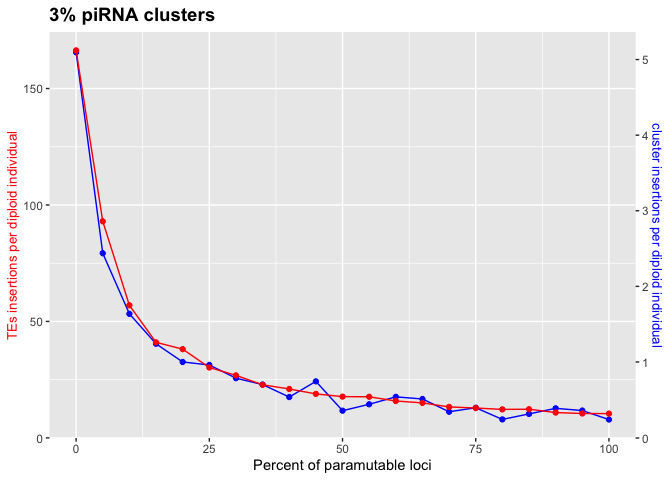
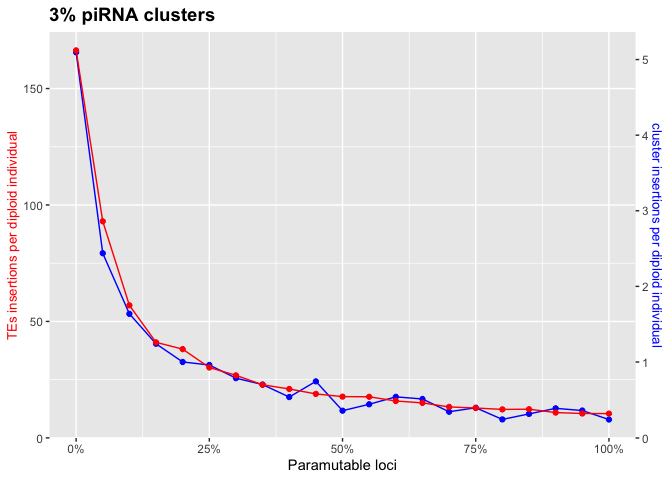
Labels fix

diff --git a/Simulation/2022_08_09_Simulation_1_Paramutations.md b/Simulation/2022_08_09_Simulation_1_Paramutations.md
@@ -136,17 +136,18 @@ df3_2 <- df3_2[order(df3_2$sampleid),]
 
 
 coeff_3=32.5
-g3 <- ggplot(df3_2, aes(x=sampleid))+
+g3 <- ggplot(df3_2, aes(x=sampleid/100))+
   geom_point(aes(y=av_cli*coeff_3), color="blue")+
   geom_line(aes(y=av_cli*coeff_3), color="blue")+
   geom_point(aes(y=av_tes), color="red")+
   geom_line(aes(y=av_tes), color="red")+
+  scale_x_continuous(labels = scales::percent)+
   ggtitle("3% piRNA clusters")+
   scale_y_continuous(
     name = "TEs insertions per diploid individual",
     sec.axis = sec_axis(~./coeff_3, name="cluster insertions per diploid individual")
   )+
-  xlab("Percent of paramutable loci")+
+  xlab("Paramutable loci")+
   theme(legend.position="none",
         plot.title = element_text(size=14, face="bold"),
         axis.title.y = element_text(color = "red", size=10),
@@ -159,13 +160,14 @@ plot(g3)
 ![](2022_08_09_Simulation_1_Paramutations_files/figure-gfm/unnamed-chunk-3-3.png)<!-- -->
 
 ``` r
-g_3_2 <- ggplot(df3_2, aes(x=sampleid, y=cv_tes_percent))+
+g_3_2 <- ggplot(df3_2, aes(x=sampleid/100, y=cv_tes_percent))+
   geom_point()+
   geom_smooth(method='lm', formula= y~x, se = FALSE)+
   stat_regline_equation(label.y = 0.18, aes(label = ..eq.label..))+
   stat_regline_equation(label.y = 0.16, aes(label = ..rr.label..))+
-  xlab("Percent of paramutable loci")+
+  xlab("Paramutable loci")+
   ylab("Coefficient of variation TEs insertions per individual")+
+  scale_x_continuous(labels = scales::percent)+
   scale_y_continuous(labels = scales::percent, limits = c(0, 0.4))+
   ggtitle("Effects of paramutations on the cv of TE insertions per individual")+
   theme(legend.position="none",
@@ -177,13 +179,14 @@ plot(g_3_2)
 ![](2022_08_09_Simulation_1_Paramutations_files/figure-gfm/unnamed-chunk-3-4.png)<!-- -->
 
 ``` r
-g_3_3 <- ggplot(df3_2, aes(x=sampleid, y=cv_cli_percent))+
+g_3_3 <- ggplot(df3_2, aes(x=sampleid/100, y=cv_cli_percent))+
   geom_point()+
   geom_smooth(method='lm', formula= y~x, se = FALSE)+
   stat_regline_equation(label.y = 2.8, aes(label = ..eq.label..))+
   stat_regline_equation(label.y = 2.6, aes(label = ..rr.label..))+
-  xlab("Percent of paramutable loci")+
+  xlab("Paramutable loci")+
   ylab("Coefficient of variation TEs insertions per individual")+
+  scale_x_continuous(labels = scales::percent)+
   scale_y_continuous(labels = scales::percent)+
   ggtitle("Effects of paramutations on the cv of cluster insertions")+
   theme(legend.position="none",
